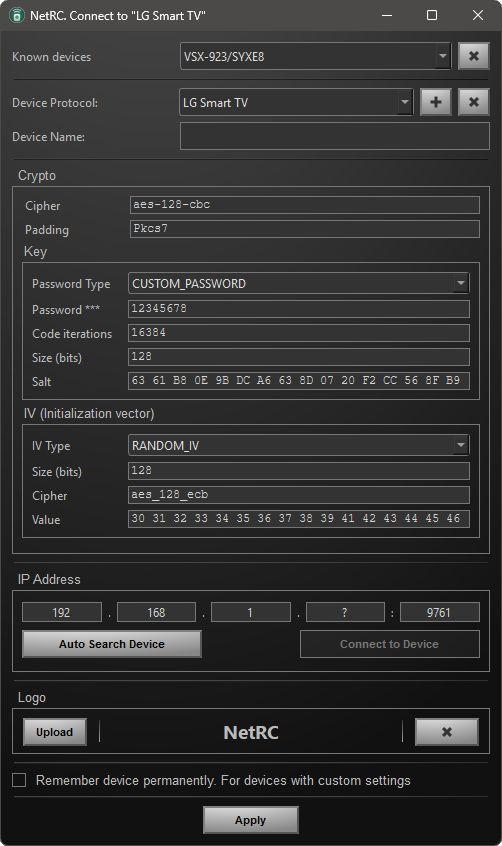
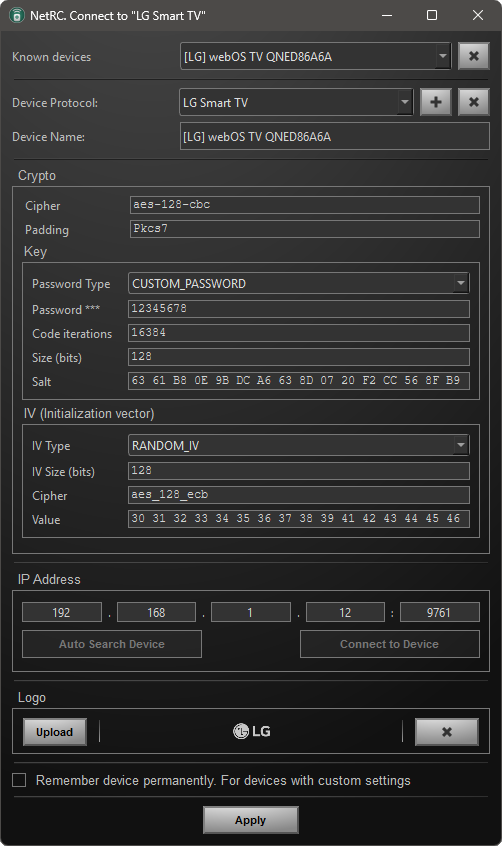
some cosmetic changes

diff --git a/src/deviceconnector.cpp b/src/deviceconnector.cpp
@@ -58,6 +58,7 @@ DeviceConnector::DeviceConnector(QVariant &sets, QWidget *parent) :
             }
         }
     }
+
     connect(ui->autoSearchButton, SIGNAL(clicked()), this, SLOT(autoSearchClicked()));
     connect(ui->applyButton, SIGNAL(clicked()), this, SLOT(applyButtonClicked()));
     connect(ui->deleteConfig, SIGNAL(clicked()), this, SLOT(deleteFamilyClicked()));
@@ -321,7 +322,7 @@ void DeviceConnector::applyCryptoToUI(QHash<QString, QVariant> crypto, QGridLayo
 
     lay->addWidget(ivType, layidx++, 1);
 
-    lay->addWidget(new QLabel("Size (bits)"), layidx, 0);
+    lay->addWidget(new QLabel("IV Size (bits)"), layidx, 0);
     lay->addWidget(createCryptoWidget(cryptoSettings.iv.bitsSize), layidx++, 1);
 
     lay->addWidget(new QLabel("Cipher"), layidx, 0);
@@ -344,8 +345,10 @@ void DeviceConnector::reloadCryptoSettings() {
     if(crypto.isValid()) {
         applyCryptoToUI(crypto.toHash(), ui->cryptoGridLayout);
         ui->cryptoBox->setVisible(true);
+        ui->autoSearchButton ->setDisabled(true);
     } else {
         ui->cryptoBox->setVisible(false);
+        ui->autoSearchButton ->setDisabled(false);
     }
 
     ui->cryptoLine->setVisible(crypto.isValid());

diff --git a/src/deviceinterface.cpp b/src/deviceinterface.cpp
@@ -187,13 +187,11 @@ bool DeviceInterface::isTimeRs(const QString& data) {
 }
 
 bool DeviceInterface::isPingErrRs(const QString& data) {
-    qDebug() << pingResponseErr.isEmpty() << data;
     return pingResponseErr.isEmpty() ? data.isEmpty():
                data.contains(pingResponseErr);
 }
 
 bool DeviceInterface::isPingOkRs(const QString& data) {
-    qDebug() << pingResponseOk << data;
     return data.contains(pingResponseOk) ;
 }
 
